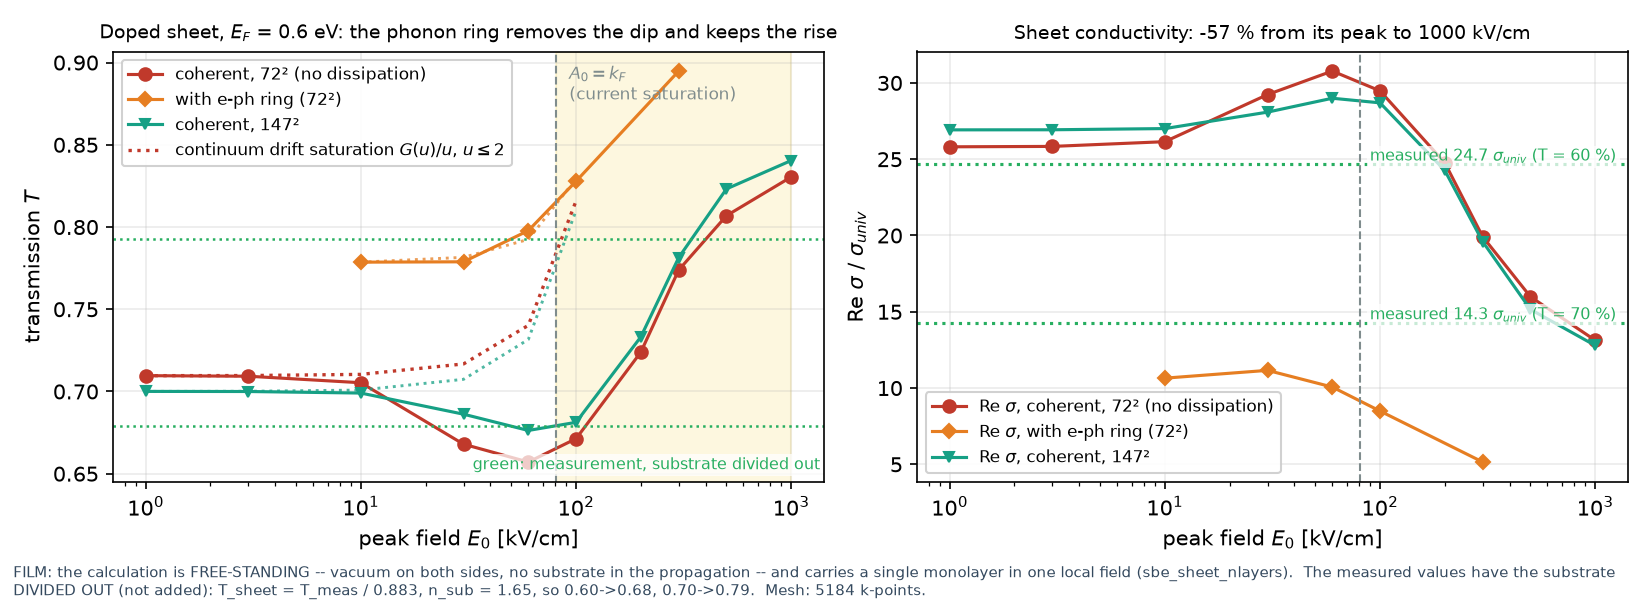
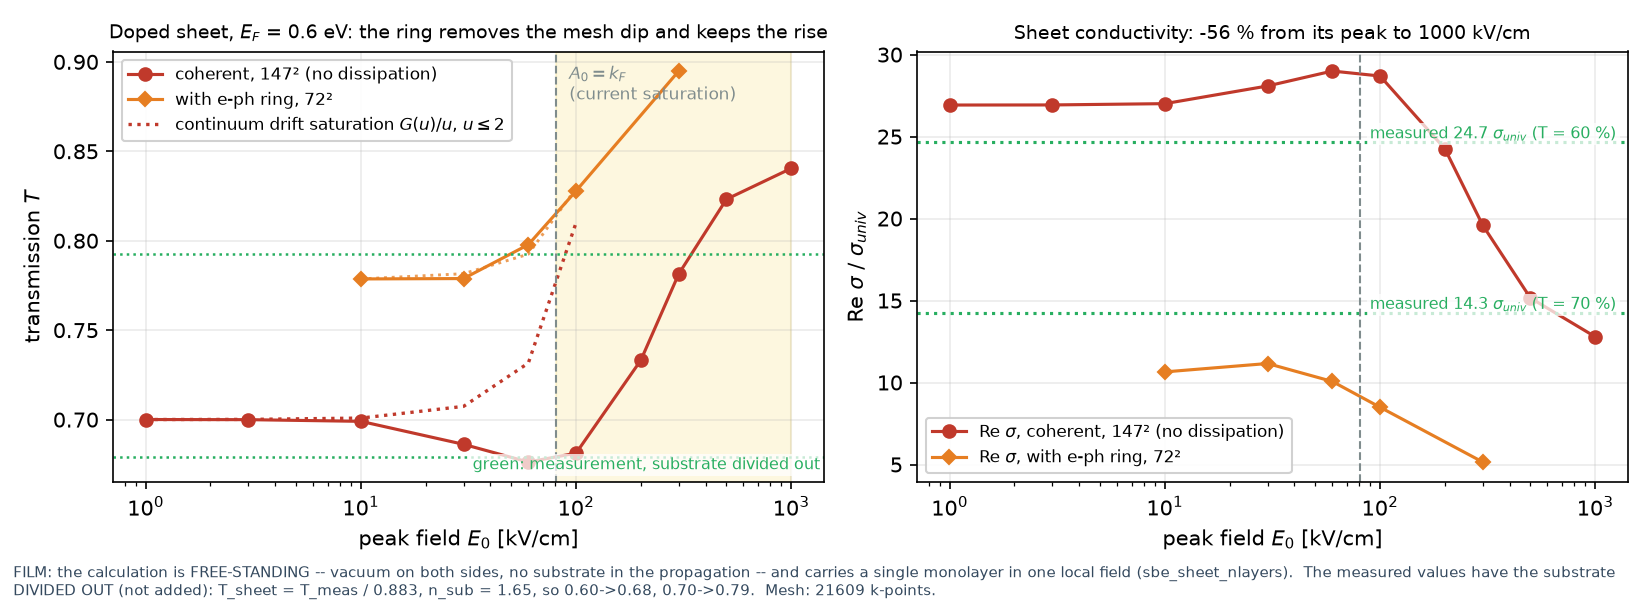
wiki/12: the T(E0) figure with the phonon ring beside the best coherent mesh
The dissipative 72^2 scan (3 kV/cm dropped -- the dark control showed it contaminated)
against the coherent 147^2 one. The ring turns an inductive mirror into a Drude
absorber (R 0.28 -> 0.02, A 0.01 -> 0.20), moves the curve up towards the measured
band, and removes the residual darkening: the coherent curve still dips before
saturation, the dissipative one is flat and then rises. The caption says plainly that
the two are on different meshes because the ring is O(N_k^2), so the vertical offset
mixes mesh with physics and the shapes are the comparison.

field_scan_plot --series now unions globs separated by whitespace as well as colons,
which is what lets a series drop a single contaminated field.

Claude-Session: https://claude.ai/code/session_01BPmECfuWC7UD3rhcA1hTKp

diff --git a/samples/exercise_x14_graphene_self_induced_transparency/field_scan_plot.py b/samples/exercise_x14_graphene_self_induced_transparency/field_scan_plot.py
@@ -29,6 +29,7 @@ between meshes, not between occupations.
 """
 import argparse
 import glob
+import re
 import os
 import sys
 
@@ -148,10 +149,10 @@ def main(argv=None):
     extra = []
     for spec in args.series:
         lab, _, pat = spec.partition(':')
-        # the remainder may hold several colon-separated globs, so a series can be
-        # assembled from a subset of a run directory (e.g. dropping a field whose
-        # control run showed it contaminated)
-        arr, _ef, asig, atk, _nl, _nk = collect([p for p in pat.split(':') if p])
+        # the remainder may hold several globs separated by colons or whitespace, so a
+        # series can be assembled from a subset of a run directory (e.g. dropping a
+        # field whose dark control showed it contaminated)
+        arr, _ef, asig, atk, _nl, _nk = collect([g for g in re.split(r'[:\s]+', pat) if g])
         if arr.size:
             extra.append((lab, arr, asig, _ef or ef, atk))
     fig, ax = plt.subplots(1, npan, figsize=(5.5 * npan, 4.0))

diff --git a/wiki/12_graphene_sheet_solver.md b/wiki/12_graphene_sheet_solver.md
@@ -827,6 +827,17 @@ ring-down):
 | $R$ | 0.020 | 0.026 | 0.024 | 0.020 | 0.016 |
 | $A$ | 0.202 | 0.195 | 0.178 | 0.152 | 0.089 |
 
+![T(E0) with and without the phonon ring](figures/graphene_T_of_field_ring.png)
+
+*The dissipative scan (orange, $72^2$) against the best coherent one (red, $147^2$),
+same doping and same transient.* The ring turns an inductive mirror into a Drude
+absorber — $R$ falls from 0.28 to 0.02, $A$ rises from 0.01 to 0.20 — which moves the
+whole curve up towards the measured band and, more importantly, removes the residual
+darkening: the coherent curve still dips before the shaded saturation region, the
+dissipative one is flat and then rises. The two are on different meshes because the
+ring is $O(N_k^2)$ (see below), so the vertical offset between them mixes the mesh with
+the physics; the *shapes* are the comparison.
+
 Flat through 10–30 kV/cm, then a monotone rise to 0.895, with $\sigma$ down $54\,\%$
 from its peak. **The mesh dip is gone**: the coherent curve on this same $72^2$ mesh
 dips $7.2\,\%$ before rising (§4a.5.5 table above), the dissipative one does not dip at
